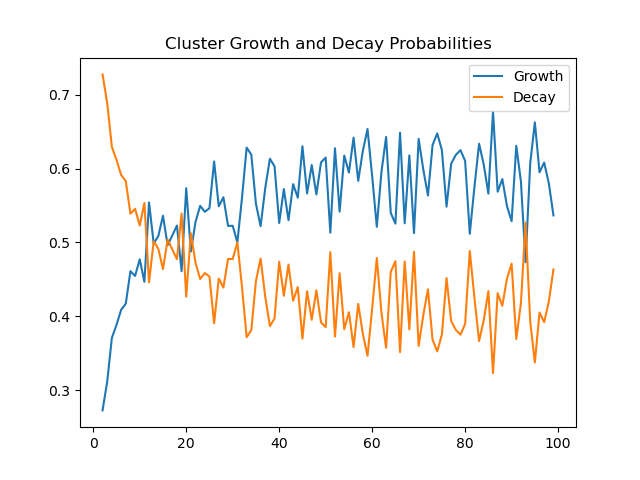
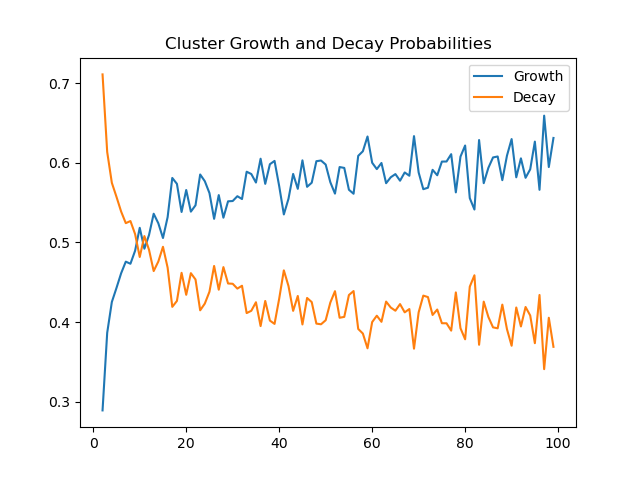
Updated repo for next simulation run

diff --git a/analyze_rates.py b/analyze_rates.py
@@ -6,7 +6,8 @@ def analyze_rates(model_name, simulation_indices, plot_name='rates.png'):
     growth_sizes = []
     decay_sizes = []
 
-    for simulation_index in simulation_indices:
+    for i, simulation_index in enumerate(simulation_indices):
+        print(f"Analyzing simulation {i + 1} of {len(simulation_indices)}")
         automaton_data = load_automaton_data(model_name, simulation_index, "cluster")
         cluster_data, info = automaton_data["cluster_data"], automaton_data["info"]
 
@@ -39,6 +40,8 @@ def analyze_rates(model_name, simulation_indices, plot_name='rates.png'):
         print(f"{i + 1}: {prob}")
 
     plt.title("Cluster Growth and Decay Probabilities")
+    plt.xlabel("Cluster size")
+    plt.ylabel("Probability")
     plt.plot(sizes, growth_probabilities, label="Growth")
     plt.plot(sizes, decay_probabilities, label="Decay")
     plt.legend()
@@ -46,4 +49,4 @@ def analyze_rates(model_name, simulation_indices, plot_name='rates.png'):
 
 
 if __name__ == '__main__':
-    analyze_rates("tricritical", range(20))
+    analyze_rates("tricritical", range(1))

diff --git a/terminal.py b/terminal.py
@@ -22,5 +22,5 @@ from utils import load_automaton_data
 if __name__ == '__main__':
     purge_data()
     num_simulations = 48
-    tricritical(0.4, 0.92, num_simulations, save_series=False, save_cluster=True)
-    analyze_rates("tricritical", range(num_simulations), "0p4.png")
+    tricritical(0.65, 0.0, num_simulations, save_series=False, save_cluster=True)
+    analyze_rates("tricritical", range(num_simulations), "0p65.png")

diff --git a/models/tricritical/in_place_processing.py b/models/tricritical/in_place_processing.py
@@ -172,7 +172,7 @@ def save_data(automaton_data, format_type, p, q):
 def tricritical(p_ext = 0.5, q_ext = 0.5, num_parallel = 10, save_series = False, save_cluster = True):
     # model parameters
     length = 100
-    time = 100 * length * length
+    time = 500 * length * length
     p = p_ext
     q = q_ext
 
